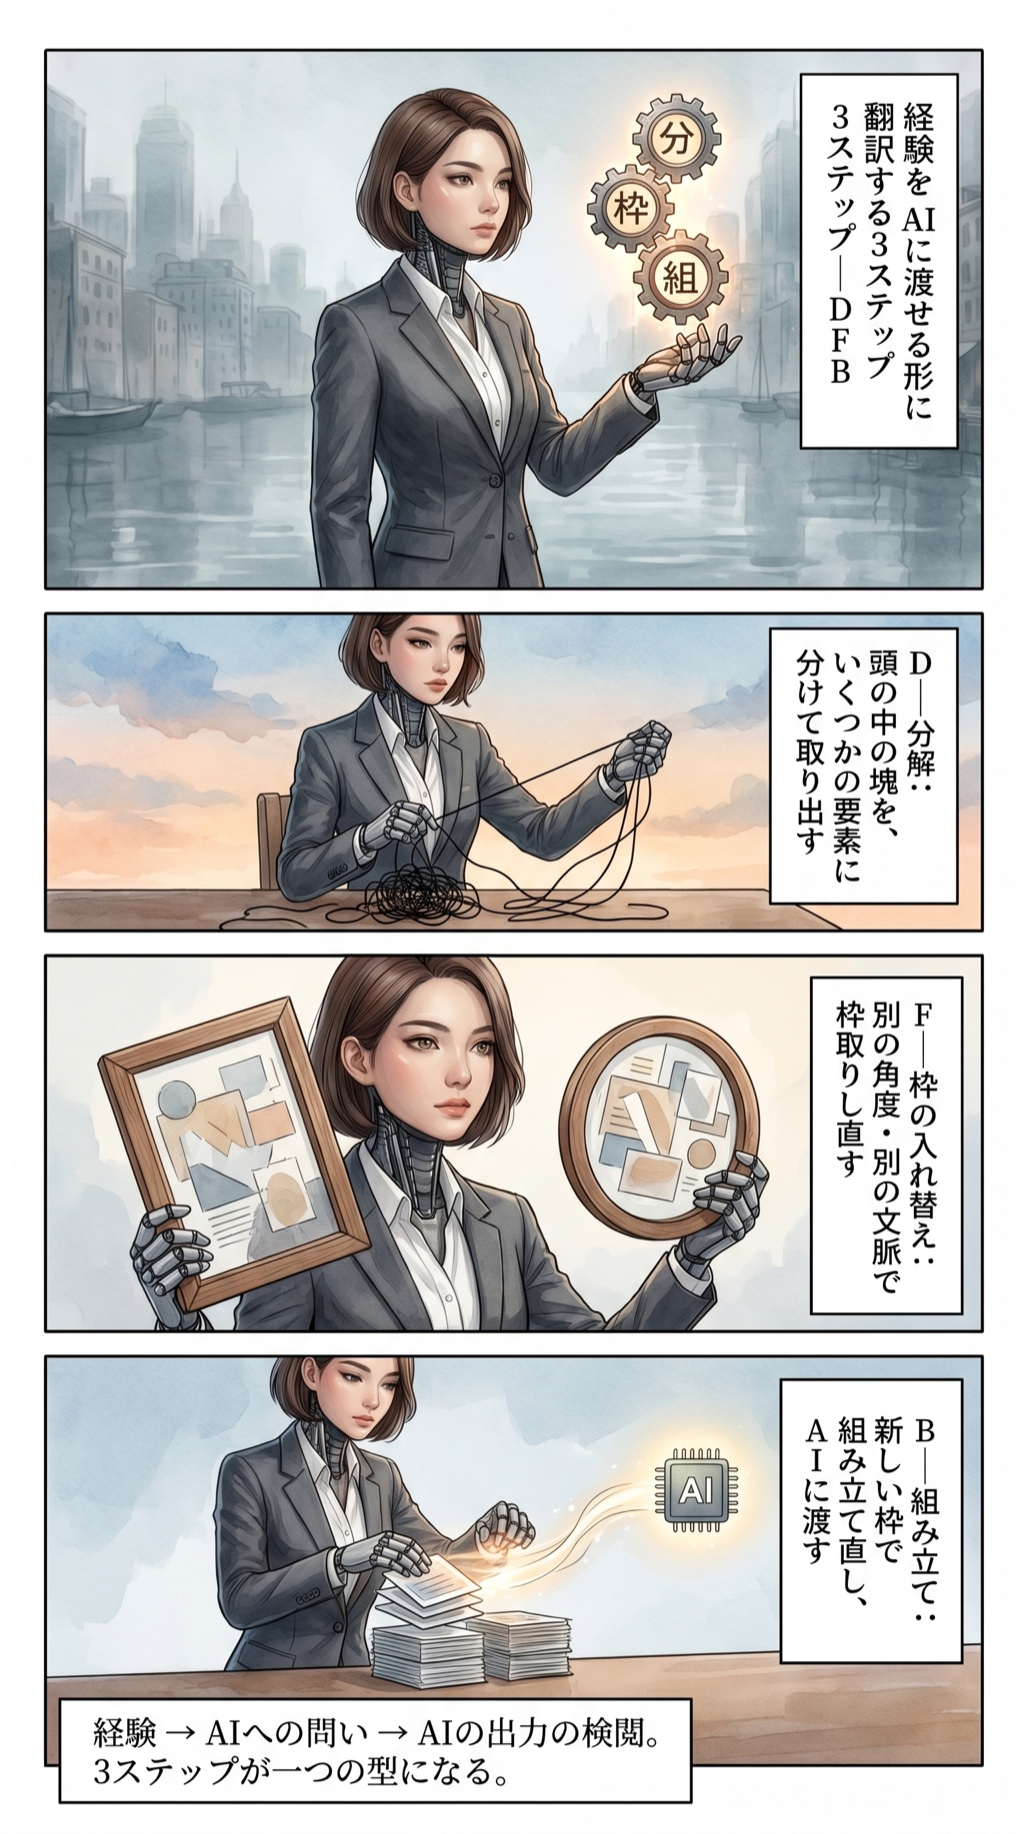
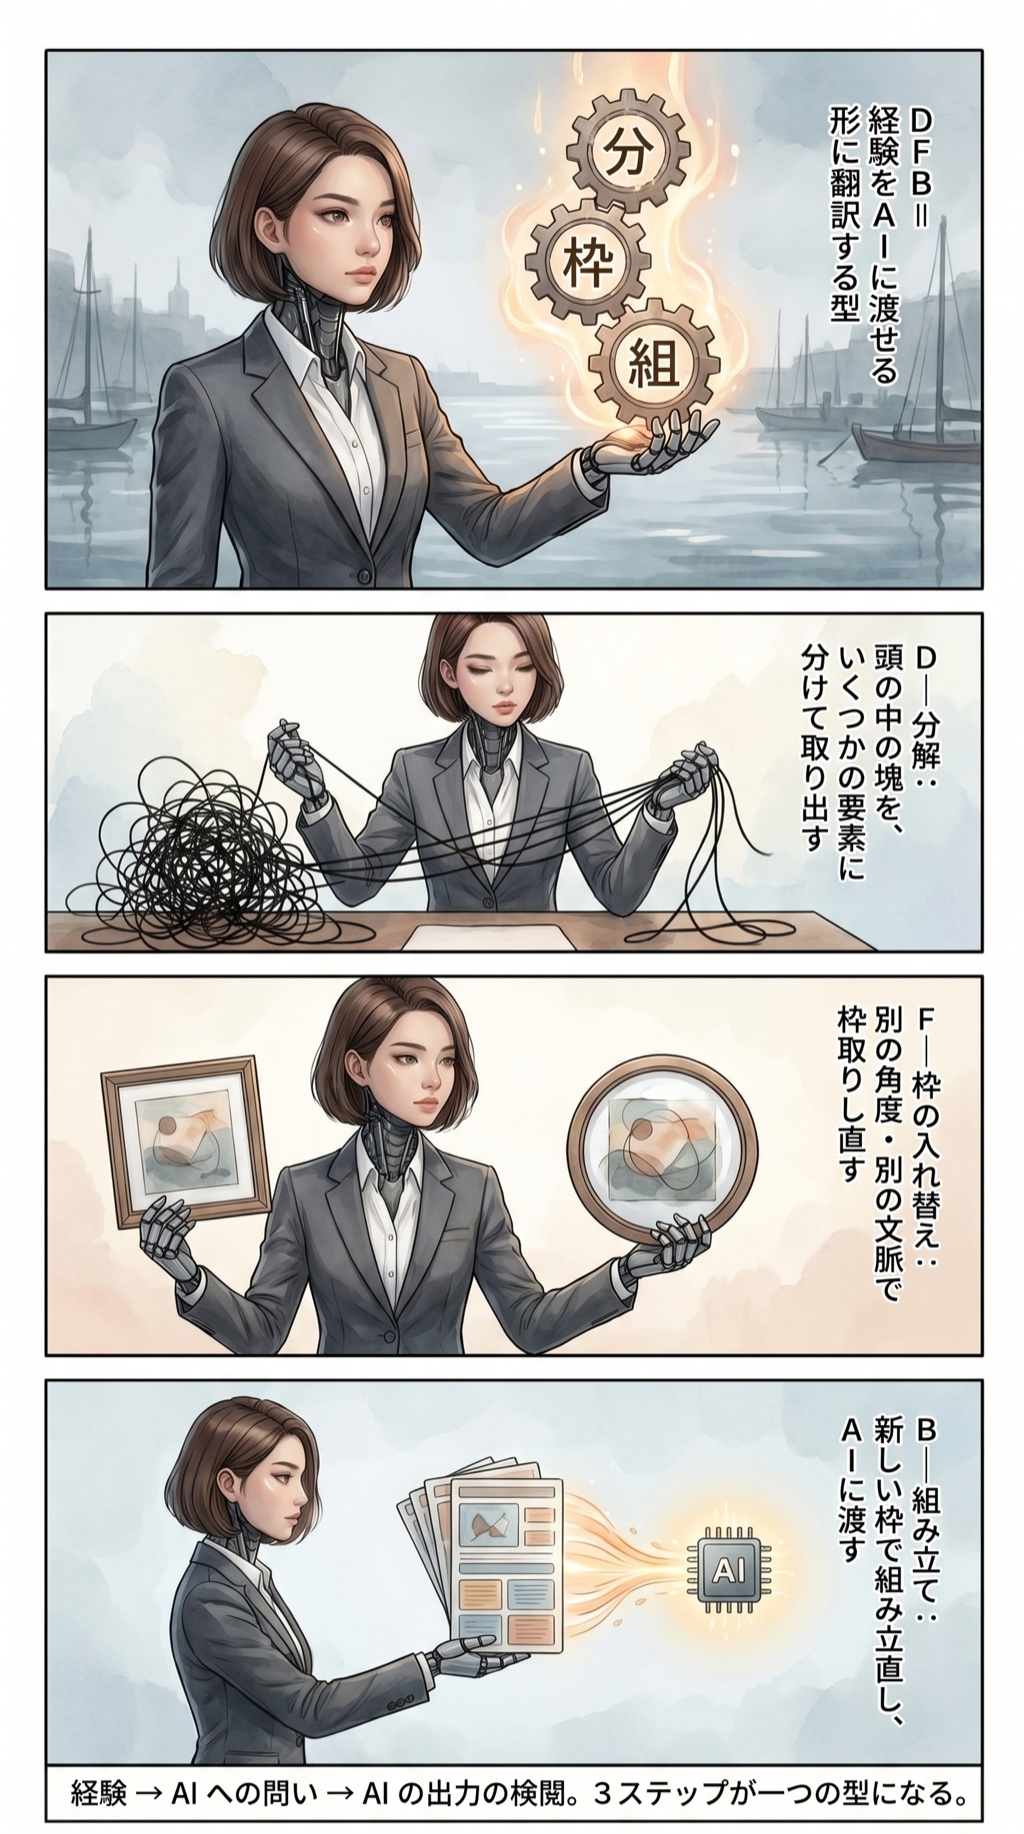
fix(content): 個人ブログから法人「株式会社EFFECT」表記を全削除 + DFB漫画1コマ目セリフ修正
tony.effect.moe は個人ブログ。トニーは EFFECT 代表ではない。記事で法人と一括りにするのは禁止（メモリ feedback_tony_personal_blog_not_effect_corp.md 参照）。

削除:
- シニア有利記事 本文「筆者（株式会社EFFECT代表）」→「ぼく」
- シニア有利記事 関連リンク「[株式会社EFFECT 公式サイト](https://effect.moe)」削除
- DFB解説 TL;DR「シュ コウメイ（株式会社EFFECT代表）が提唱する」→「シュ コウメイ が提唱する」
- DFB解説 関連リンクから「株式会社EFFECT 公式サイト」「AI×LLM 経営伴走コンサルティング」削除

DFB漫画 1コマ目セリフ修正:
- 旧: 「経験を AI に渡せる形に翻訳する3ステップ — DFB」（Higgsfield が「3ステップ」を二重生成）
- 新: 「DFB ＝ 経験を AI に渡せる形に翻訳する型」（二重生成回避・文字クリーン回引き直し成功）

diff --git a/src/content/posts/ai-era-senior-structuring-power/index.md b/src/content/posts/ai-era-senior-structuring-power/index.md
@@ -23,7 +23,7 @@ draft: false
 
 論旨は明快だ。AIが定型業務と初級判断を代替するほど、**経験に基づく判断・批判的思考・人間理解** が希少化する。だからシニアにこそチャンスがある——と。
 
-筆者（株式会社EFFECT代表）はこの結論には全面同意する。
+ぼくはこの結論には全面同意する。
 
 ただ、ここで止まると「経験豊富なシニアならAI時代に勝てる」というやや楽観的なメッセージに見えてしまう。実際の現場で起きていることはもう少し冷たい。
 
@@ -92,4 +92,3 @@ AIが返してきたものを、自分の経験で殴って弾く。
 
 - [元投稿 / Facebook (2026-05-25)](https://www.facebook.com/story.php?story_fbid=26890238053960756&id=100002037751243)
 - [DFBとは — AI時代の構造化メソッド](https://tony.effect.moe/posts/dfb-method-introduction/)
-- [株式会社EFFECT 公式サイト](https://effect.moe)
